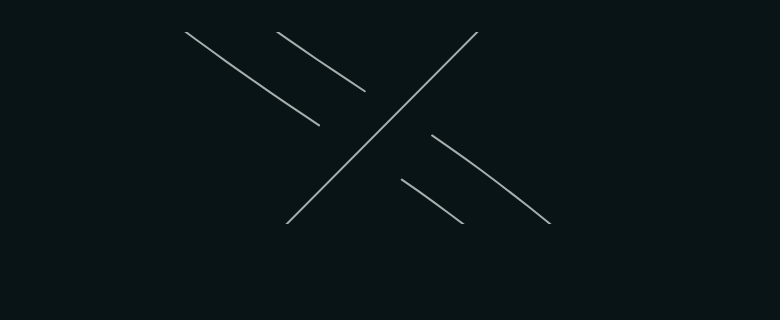
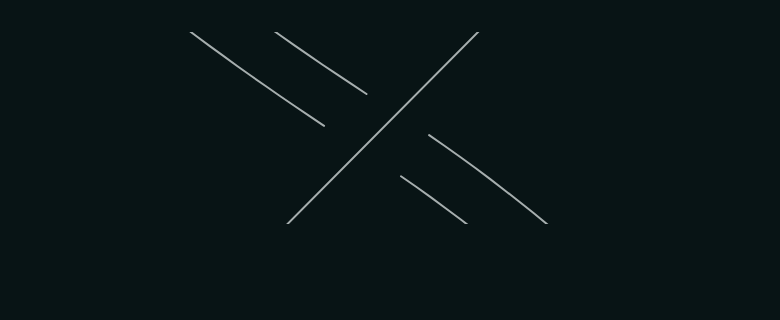
fix(rift): apply atelier critique fixes 1-9 to the sketch hatch, share crop and doc (M152)
Hatch mask per card A: rings within 2 u merged (hull), DP 2.0 (<=14 per
ring), rings under 20 u2 or narrower than 6 u dropped, <=60 vertices;
pitch 5.0, inset 1.5, runs 6-16 u. Share strip centred on (50,50), widened
3 u. Lit pixels and the river refit residual recorded in
docs/rift-schematic.md. Stills re-captured.

diff --git a/.planning/missions/M152/gallery/rift-sketch-1280.html b/.planning/missions/M152/gallery/rift-sketch-1280.html
@@ -26,7 +26,7 @@
 <svg viewBox="0 0 100 100" aria-hidden="true"><g class="ticks"><path d="M14,2 14,0.4 M26,2 26,0.4 M38,2 38,0.4 M50,2 50,0.4 M62,2 62,0.4 M74,2 74,0.4 M86,2 86,0.4 M2,21.2 0.4,21.2 M2,40.4 0.4,40.4 M2,59.6 0.4,59.6 M2,78.8 0.4,78.8"/></g><g class="ink">
 <path d="M3.5,2 96.5,2 M98,3.5 98,96.5 M96.5,98 3.5,98 M2,96.5 2,3.5"/><path d="M7.52,84.95 7.52,20 18.67,8.2 82.87,8.2 M14.19,85.65 83.26,16.05 M14.93,92.33 83.33,92.33 90.8,82 90.8,16.45"/><path d="M13.66,18.95 14.25,19.8 14.85,20.65 15.45,21.48 16.05,22.3 16.65,23.12 17.27,23.92 17.88,24.71 18.5,25.49 19.13,26.27 19.76,27.03 20.39,27.78 21.03,28.53 21.68,29.27 22.33,30 22.98,30.72 23.65,31.43 24.31,32.14 24.99,32.84 25.67,33.53 26.36,34.22 27.05,34.89 27.75,35.57 28.46,36.23 29.17,36.89 29.9,37.55 30.62,38.2 31.36,38.84 32.1,39.48 32.86,40.12 33.62,40.75 34.38,41.38 35.16,42 35.94,42.62 36.73,43.23 37.53,43.85 38.34,44.46 39.16,45.07 39.99,45.67 40.82,46.28 41.67,46.88 42.53,47.48 43.39,48.08 44.27,48.68 45.15,49.27 46.04,49.87 M50.66,52.9 51.57,53.53 52.46,54.17 53.34,54.82 54.21,55.47 55.07,56.12 55.91,56.78 56.73,57.44 57.55,58.11 58.36,58.78 59.15,59.46 59.93,60.13 60.71,60.81 61.47,61.49 62.23,62.18 62.98,62.86 63.72,63.55 64.45,64.23 65.18,64.91 65.9,65.6 66.62,66.28 67.33,66.96 68.03,67.64 68.74,68.32 69.44,69 70.14,69.67 70.83,70.34 71.53,71 72.22,71.66 72.91,72.31 73.61,72.96 74.3,73.61 75,74.25 75.69,74.88 76.39,75.5 77.1,76.12 77.8,76.73 78.51,77.33 79.23,77.92 79.95,78.5 80.68,79.07 81.41,79.63 82.15,80.18 82.9,80.72 83.66,81.25 84.42,81.76 85.19,82.27 M16.14,17.25 16.71,18.09 17.29,18.91 17.87,19.72 18.46,20.52 19.05,21.31 19.64,22.09 20.24,22.86 20.84,23.62 21.45,24.37 22.06,25.11 22.68,25.84 23.3,26.57 23.92,27.28 24.56,27.99 25.19,28.69 25.84,29.38 26.48,30.07 27.14,30.74 27.8,31.42 28.47,32.08 29.14,32.74 29.82,33.39 30.51,34.04 31.2,34.68 31.9,35.32 32.61,35.95 33.33,36.58 34.05,37.2 34.78,37.82 35.52,38.43 36.27,39.04 37.03,39.65 37.79,40.26 38.57,40.86 39.35,41.46 40.14,42.06 40.94,42.65 41.75,43.25 42.57,43.84 43.4,44.43 44.24,45.02 45.09,45.61 45.95,46.2 46.82,46.78 47.7,47.37 48.59,47.96 M52.35,50.43 53.29,51.08 54.22,51.74 55.13,52.4 56.02,53.07 56.9,53.75 57.77,54.43 58.62,55.11 59.46,55.8 60.29,56.49 61.1,57.18 61.9,57.87 62.69,58.57 63.48,59.26 64.25,59.96 65.01,60.65 65.76,61.35 66.5,62.04 67.24,62.73 67.97,63.43 68.69,64.11 69.41,64.8 70.12,65.48 70.82,66.16 71.52,66.83 72.22,67.5 72.91,68.17 73.6,68.83 74.28,69.48 74.97,70.13 75.65,70.77 76.33,71.4 77.02,72.03 77.7,72.64 78.38,73.25 79.06,73.85 79.75,74.44 80.44,75.02 81.13,75.59 81.82,76.15 82.52,76.7 83.22,77.24 83.92,77.76 84.64,78.27 85.35,78.77 86.08,79.26 86.81,79.73"/>
 <path d="M6.97,89.91a3,3 0 1 0 6,0a3,3 0 1 0 -6,0"/><path d="M85.37,7.91h6v6h-6Z"/><path d="M32.33,27.93l1.45,1.45l-1.45,1.45l-1.45,-1.45Z M65.77,69.12l1.45,1.45l-1.45,1.45l-1.45,-1.45Z"/>
-<path class="hatch" d="M12.4,24.8H13.8 M12.1,25.9H16.2 M11.9,27H17.1 M11.6,28.1H18 M11.3,29.2H18.8 M11.3,30.3H14.6 M18.1,30.3H19.6 M11.4,31.4H13.8 M18.9,31.4H20.2 M11.4,32.5H13.4 M19.7,32.5H20.7 M11.5,33.6H12.6 M70.9,35.8H74.8 M17,36.9H18.5 M69.8,36.9H77.2 M11.8,38H13.7 M16.9,38H18.6 M23.5,38H24.6 M68.6,38H78.3 M11.2,39.1H13.9 M16.9,39.1H18.8 M24.1,39.1H26 M76.4,39.1H78.1 M82.4,39.1H86.8 M11.2,40.2H13.1 M16.8,40.2H19 M25.3,40.2H28.1 M82.6,40.2H86.9 M11.2,41.3H12.7 M16.7,41.3H20.1 M27.7,41.3H30.2 M83,41.3H86.8 M16.7,42.4H21 M83.4,42.4H86.8 M17.7,43.5H21 M69.6,43.5H71.1 M84.2,43.5H86.8 M25.5,44.6H27.6 M64.4,44.6H65.6 M69.6,44.6H71.2 M83.8,44.6H86.8 M11.2,45.7H12.5 M27,45.7H28.2 M64.3,45.7H65.5 M69.8,45.7H71.4 M84.1,45.7H86.9 M11.8,46.8H16.6 M27.1,46.8H28.6 M35.9,46.8H38 M70.9,46.8H73.1 M83.7,46.8H86.9 M13.8,47.9H17.2 M27.1,47.9H28.4 M36,47.9H39.5 M58,47.9H59.7 M83.8,47.9H86.9 M22.3,49H28.4 M36,49H40.8 M58,49H60.7 M84.5,49H86.9 M21.4,50.1H27.8 M36.1,50.1H40.4 M58.1,50.1H61.8 M11.2,51.2H12.4 M37.1,51.2H40.9 M58.3,51.2H62.1 M73.9,51.2H77.5 M11.2,52.3H13.7 M38.2,52.3H40.7 M58.8,52.3H62.3 M70,52.3H72.1 M11.2,53.4H15.1 M25.4,53.4H28.1 M59.9,53.4H62.4 M70,53.4H71.6 M82.2,53.4H84.8 M11.2,54.5H15 M26.7,54.5H29.1 M33,54.5H34.2 M61,54.5H62.6 M70.2,54.5H71.4 M82.3,54.5H86.6 M11.2,55.6H15 M27.2,55.6H29.1 M32.9,55.6H34.1 M70,55.6H71.3 M11.2,56.7H14.9 M27.6,56.7H28.8 M32.9,56.7H34.8 M70.4,56.7H72.3 M11.2,57.8H14.7 M32.8,57.8H34.6 M77.7,57.8H80.2 M11.2,58.9H15.2 M19,58.9H20.3 M78.4,58.9H81.2 M11.2,60H16 M19.3,60H21.9 M68,60H69.9 M79.3,60H81.8 M11.2,61.1H16.2 M19.6,61.1H24.6 M80.3,61.1H81.8 M11.2,62.2H15.6 M20,62.2H30.4 M72.7,62.2H74.1 M20.3,63.3H29 M74,63.3H76.2 M85.4,63.3H86.9 M21.9,64.4H28.4 M75.1,64.4H77.1 M85.2,64.4H86.9 M24.2,65.5H27.4 M76,65.5H77.7 M85,65.5H86.9 M76.2,66.6H77.9 M84.9,66.6H86.9 M76.8,67.7H78.1 M85.2,67.7H86.9 M84.6,68.8H86.8 M81.2,72.1H82.7 M81.7,73.2H84 M82.8,74.2H85.3 M84.3,75.3H86.6 M22.6,13.4V14.8 M23.7,12.8V16.9 M24.8,12.2V18.9 M25.9,12.1V20.2 M27,12.1V16.7 M27,25V26.8 M28.1,12V14.4 M28.1,24.8V27.6 M29.2,12V13.7 M29.2,23.4V28.3 M30.3,12V13.4 M30.3,22.3V26.7 M31.4,22.7V26.4 M32.5,23V26.3 M33.6,23.4V26.6 M33.6,71.3V72.5 M34.7,24V26.5 M34.7,32.7V34.2 M34.7,70.3V74.1 M35.8,19V20.4 M35.8,25.4V26.6 M35.8,31.9V34.5 M35.8,69.3V75.1 M36.9,18.6V21.2 M36.9,31.8V34.7 M36.9,68.8V74 M38,11.9V13.7 M38,18.3V22 M38,31.8V34.7 M38,68.5V71.9 M38,78.4V83.7 M39.1,11.8V13.5 M39.1,18V22.3 M39.1,33.7V35.1 M39.1,68.2V69.7 M39.1,78V83.7 M40.2,11.8V13 M40.2,17.9V21.5 M40.2,80.3V83.7 M41.3,11.7V13.2 M41.3,19.4V21.5 M42.4,11.7V13.1 M42.4,19.5V21 M42.4,62.5V65.5 M42.4,72.3V76.9 M43.5,19.5V21 M43.5,24.6V26.9 M43.5,61.6V66.8 M43.5,71.7V77.8 M44.6,19.2V20.9 M44.6,40.2V41.5 M44.6,61.1V62.2 M44.6,75.9V78.8 M44.6,84.7V88.5 M45.7,16.7V20.7 M45.7,40.8V42.6 M45.7,60.3V61.7 M45.7,76.6V79.4 M45.7,84.4V88.4 M46.8,17.2V20.7 M46.8,41.7V43.3 M46.8,59.7V61.6 M46.8,77.9V79 M46.8,84.6V88.4 M47.9,11.9V13.6 M47.9,35.7V38.2 M47.9,42.6V44.1 M47.9,85V88.5 M49,11.9V14.6 M49,36.3V39 M49,43.6V44.9 M49,85.6V88.5 M50.1,11.9V15.3 M50.1,28.5V29.8 M50.1,38V39.2 M50.1,62.5V64.1 M50.1,86.4V88.5 M51.2,11.9V15.4 M51.2,38.5V39.8 M51.2,81V82.6 M51.2,87V88.5 M52.3,11.9V15.9 M52.3,22.2V23.4 M52.3,38.5V41.1 M52.3,79.7V83.2 M53.4,11.9V15.5 M53.4,21.8V24.3 M53.4,38.5V40.5 M53.4,79.6V83.4 M54.5,11.9V15.9 M54.5,22V26.5 M54.5,37.4V39.4 M54.5,73V75.8 M54.5,79.4V81 M55.6,12.6V15.4 M55.6,22.9V28.6 M55.6,35.4V38.5 M55.6,73.5V75.3 M55.6,79.2V80.9 M56.7,36.1V37.5 M56.7,79.1V80.9 M57.8,78.9V81.5 M58.9,16.6V20.5 M58.9,79V82.1 M58.9,87V88.5 M60,11.9V21.9 M60,30.3V32.4 M60,65.4V68.1 M60,79V82 M61.1,12.3V21.9 M61.1,26.1V32.3 M61.1,65.7V68.1 M61.1,79.7V81.5 M62.2,19.5V21.1 M62.2,26V32.4 M62.2,65.4V68.1 M63.3,25.9V31.6 M63.3,65.9V68.1 M63.3,73V74.8 M64.4,26.6V30.2 M64.4,74V76.2 M64.4,85.4V87.6 M65.5,28V29.3 M65.5,75V76.7 M65.5,85.5V88.4 M66.6,74.7V77.1 M66.6,86.2V88.4 M67.7,74V77.5 M67.7,86.4V88.3 M68.8,72.3V77.9 M68.8,86.8V88.4 M69.9,72.2V76 M69.9,87V88.3 M71,73.6V75.5 M73.2,79.6V81.7 M74.2,79.5V82.9 M75.3,80.1V86.8 M76.4,81.1V85.7 M77.5,82.4V84.6"/><path class="dots" d="M9.4,17.11h0 M8.95,17.89h0 M9.85,17.89h0 M89.27,82.32h0 M88.82,83.1h0 M89.72,83.1h0 M82.81,88.02h0 M82.36,88.8h0 M83.26,88.8h0 M15.86,11.4h0 M15.41,12.18h0 M16.31,12.18h0 M9.23,24.5h0 M8.78,25.28h0 M9.68,25.28h0 M89.43,74.93h0 M88.98,75.71h0 M89.88,75.71h0 M54.18,63.46h0 M53.73,64.24h0 M54.63,64.24h0 M44.48,35.96h0 M44.03,36.74h0 M44.93,36.74h0 M19.51,68.82h0 M19.06,69.6h0 M19.96,69.6h0 M79.15,30.61h0 M78.7,31.39h0 M79.6,31.39h0"/></g><g class="chalk"><path d="M13.26,88.72L19.84,86.34"/><path d="M13.26,88.72h0"/></g></svg>
+<path class="hatch" d="M12.5,37.5H21.8 M12.3,42.5H28.3 M66.8,42.5H78 M16.2,47.5H30.1 M62.7,47.5H76.6 M20.3,52.5H30 M61.9,52.5H76.5 M20.4,57.5H29.8 M69.4,57.5H76.8 M21.5,62.5H28 M52.5,23.7V38.8 M52.5,73V79.8 M57.5,73.1V82"/><path class="dots" d="M9.4,17.11h0 M8.95,17.89h0 M9.85,17.89h0 M89.27,82.32h0 M88.82,83.1h0 M89.72,83.1h0 M82.81,88.02h0 M82.36,88.8h0 M83.26,88.8h0 M15.86,11.4h0 M15.41,12.18h0 M16.31,12.18h0 M9.23,24.5h0 M8.78,25.28h0 M9.68,25.28h0 M89.43,74.93h0 M88.98,75.71h0 M89.88,75.71h0 M54.18,63.46h0 M53.73,64.24h0 M54.63,64.24h0 M44.48,35.96h0 M44.03,36.74h0 M44.93,36.74h0 M19.51,68.82h0 M19.06,69.6h0 M19.96,69.6h0 M79.15,30.61h0 M78.7,31.39h0 M79.6,31.39h0"/></g><g class="chalk"><path d="M13.26,88.72L19.84,86.34"/><path d="M13.26,88.72h0"/></g></svg>
 <span class="eyebrow" style="left:34.58%;top:29.38%;transform:translateY(-50%)">Baron</span>
 <span class="eyebrow" style="right:36.48%;top:70.57%;transform:translateY(-50%)">Dragon</span>
 <span class="tick" style="left:8%;top:0;transform:translate(-50%,-110%)">A</span><span class="tick" style="left:20%;top:0;transform:translate(-50%,-110%)">B</span><span class="tick" style="left:32%;top:0;transform:translate(-50%,-110%)">C</span><span class="tick" style="left:44%;top:0;transform:translate(-50%,-110%)">D</span><span class="tick" style="left:56%;top:0;transform:translate(-50%,-110%)">E</span><span class="tick" style="left:68%;top:0;transform:translate(-50%,-110%)">F</span><span class="tick" style="left:80%;top:0;transform:translate(-50%,-110%)">G</span><span class="tick" style="left:92%;top:0;transform:translate(-50%,-110%)">H</span><span class="tick" style="left:0;top:11.6%;transform:translate(-140%,-50%)">1</span><span class="tick" style="left:0;top:30.8%;transform:translate(-140%,-50%)">2</span><span class="tick" style="left:0;top:50%;transform:translate(-140%,-50%)">3</span><span class="tick" style="left:0;top:69.2%;transform:translate(-140%,-50%)">4</span><span class="tick" style="left:0;top:88.4%;transform:translate(-140%,-50%)">5</span><span class="eyebrow label" style="left:20.84%;top:86.34%;transform:translateY(-50%)">Your team</span></div></div></body></html>

diff --git a/.planning/missions/M152/gallery/rift-sketch-390.html b/.planning/missions/M152/gallery/rift-sketch-390.html
@@ -26,7 +26,7 @@
 <svg viewBox="0 0 100 100" aria-hidden="true"><g class="ink">
 <path d="M3.5,2 96.5,2 M98,3.5 98,96.5 M96.5,98 3.5,98 M2,96.5 2,3.5"/><path d="M7.52,84.95 7.52,20 18.67,8.2 82.87,8.2 M14.19,85.65 83.26,16.05 M14.93,92.33 83.33,92.33 90.8,82 90.8,16.45"/><path d="M13.66,18.95 14.25,19.8 14.85,20.65 15.45,21.48 16.05,22.3 16.65,23.12 17.27,23.92 17.88,24.71 18.5,25.49 19.13,26.27 19.76,27.03 20.39,27.78 21.03,28.53 21.68,29.27 22.33,30 22.98,30.72 23.65,31.43 24.31,32.14 24.99,32.84 25.67,33.53 26.36,34.22 27.05,34.89 27.75,35.57 28.46,36.23 29.17,36.89 29.9,37.55 30.62,38.2 31.36,38.84 32.1,39.48 32.86,40.12 33.62,40.75 34.38,41.38 35.16,42 35.94,42.62 36.73,43.23 37.53,43.85 38.34,44.46 39.16,45.07 39.99,45.67 40.82,46.28 41.67,46.88 42.53,47.48 43.39,48.08 44.27,48.68 45.15,49.27 46.04,49.87 M50.66,52.9 51.57,53.53 52.46,54.17 53.34,54.82 54.21,55.47 55.07,56.12 55.91,56.78 56.73,57.44 57.55,58.11 58.36,58.78 59.15,59.46 59.93,60.13 60.71,60.81 61.47,61.49 62.23,62.18 62.98,62.86 63.72,63.55 64.45,64.23 65.18,64.91 65.9,65.6 66.62,66.28 67.33,66.96 68.03,67.64 68.74,68.32 69.44,69 70.14,69.67 70.83,70.34 71.53,71 72.22,71.66 72.91,72.31 73.61,72.96 74.3,73.61 75,74.25 75.69,74.88 76.39,75.5 77.1,76.12 77.8,76.73 78.51,77.33 79.23,77.92 79.95,78.5 80.68,79.07 81.41,79.63 82.15,80.18 82.9,80.72 83.66,81.25 84.42,81.76 85.19,82.27 M16.14,17.25 16.71,18.09 17.29,18.91 17.87,19.72 18.46,20.52 19.05,21.31 19.64,22.09 20.24,22.86 20.84,23.62 21.45,24.37 22.06,25.11 22.68,25.84 23.3,26.57 23.92,27.28 24.56,27.99 25.19,28.69 25.84,29.38 26.48,30.07 27.14,30.74 27.8,31.42 28.47,32.08 29.14,32.74 29.82,33.39 30.51,34.04 31.2,34.68 31.9,35.32 32.61,35.95 33.33,36.58 34.05,37.2 34.78,37.82 35.52,38.43 36.27,39.04 37.03,39.65 37.79,40.26 38.57,40.86 39.35,41.46 40.14,42.06 40.94,42.65 41.75,43.25 42.57,43.84 43.4,44.43 44.24,45.02 45.09,45.61 45.95,46.2 46.82,46.78 47.7,47.37 48.59,47.96 M52.35,50.43 53.29,51.08 54.22,51.74 55.13,52.4 56.02,53.07 56.9,53.75 57.77,54.43 58.62,55.11 59.46,55.8 60.29,56.49 61.1,57.18 61.9,57.87 62.69,58.57 63.48,59.26 64.25,59.96 65.01,60.65 65.76,61.35 66.5,62.04 67.24,62.73 67.97,63.43 68.69,64.11 69.41,64.8 70.12,65.48 70.82,66.16 71.52,66.83 72.22,67.5 72.91,68.17 73.6,68.83 74.28,69.48 74.97,70.13 75.65,70.77 76.33,71.4 77.02,72.03 77.7,72.64 78.38,73.25 79.06,73.85 79.75,74.44 80.44,75.02 81.13,75.59 81.82,76.15 82.52,76.7 83.22,77.24 83.92,77.76 84.64,78.27 85.35,78.77 86.08,79.26 86.81,79.73"/>
 <path d="M6.97,89.91a3,3 0 1 0 6,0a3,3 0 1 0 -6,0"/><path d="M85.37,7.91h6v6h-6Z"/><path d="M32.33,27.93l1.45,1.45l-1.45,1.45l-1.45,-1.45Z M65.77,69.12l1.45,1.45l-1.45,1.45l-1.45,-1.45Z"/>
-<path class="hatch" d="M12.4,24.8H13.8 M12.1,25.9H16.2 M11.9,27H17.1 M11.6,28.1H18 M11.3,29.2H18.8 M11.3,30.3H14.6 M18.1,30.3H19.6 M11.4,31.4H13.8 M18.9,31.4H20.2 M11.4,32.5H13.4 M19.7,32.5H20.7 M11.5,33.6H12.6 M70.9,35.8H74.8 M17,36.9H18.5 M69.8,36.9H77.2 M11.8,38H13.7 M16.9,38H18.6 M23.5,38H24.6 M68.6,38H78.3 M11.2,39.1H13.9 M16.9,39.1H18.8 M24.1,39.1H26 M76.4,39.1H78.1 M82.4,39.1H86.8 M11.2,40.2H13.1 M16.8,40.2H19 M25.3,40.2H28.1 M82.6,40.2H86.9 M11.2,41.3H12.7 M16.7,41.3H20.1 M27.7,41.3H30.2 M83,41.3H86.8 M16.7,42.4H21 M83.4,42.4H86.8 M17.7,43.5H21 M69.6,43.5H71.1 M84.2,43.5H86.8 M25.5,44.6H27.6 M64.4,44.6H65.6 M69.6,44.6H71.2 M83.8,44.6H86.8 M11.2,45.7H12.5 M27,45.7H28.2 M64.3,45.7H65.5 M69.8,45.7H71.4 M84.1,45.7H86.9 M11.8,46.8H16.6 M27.1,46.8H28.6 M35.9,46.8H38 M70.9,46.8H73.1 M83.7,46.8H86.9 M13.8,47.9H17.2 M27.1,47.9H28.4 M36,47.9H39.5 M58,47.9H59.7 M83.8,47.9H86.9 M22.3,49H28.4 M36,49H40.8 M58,49H60.7 M84.5,49H86.9 M21.4,50.1H27.8 M36.1,50.1H40.4 M58.1,50.1H61.8 M11.2,51.2H12.4 M37.1,51.2H40.9 M58.3,51.2H62.1 M73.9,51.2H77.5 M11.2,52.3H13.7 M38.2,52.3H40.7 M58.8,52.3H62.3 M70,52.3H72.1 M11.2,53.4H15.1 M25.4,53.4H28.1 M59.9,53.4H62.4 M70,53.4H71.6 M82.2,53.4H84.8 M11.2,54.5H15 M26.7,54.5H29.1 M33,54.5H34.2 M61,54.5H62.6 M70.2,54.5H71.4 M82.3,54.5H86.6 M11.2,55.6H15 M27.2,55.6H29.1 M32.9,55.6H34.1 M70,55.6H71.3 M11.2,56.7H14.9 M27.6,56.7H28.8 M32.9,56.7H34.8 M70.4,56.7H72.3 M11.2,57.8H14.7 M32.8,57.8H34.6 M77.7,57.8H80.2 M11.2,58.9H15.2 M19,58.9H20.3 M78.4,58.9H81.2 M11.2,60H16 M19.3,60H21.9 M68,60H69.9 M79.3,60H81.8 M11.2,61.1H16.2 M19.6,61.1H24.6 M80.3,61.1H81.8 M11.2,62.2H15.6 M20,62.2H30.4 M72.7,62.2H74.1 M20.3,63.3H29 M74,63.3H76.2 M85.4,63.3H86.9 M21.9,64.4H28.4 M75.1,64.4H77.1 M85.2,64.4H86.9 M24.2,65.5H27.4 M76,65.5H77.7 M85,65.5H86.9 M76.2,66.6H77.9 M84.9,66.6H86.9 M76.8,67.7H78.1 M85.2,67.7H86.9 M84.6,68.8H86.8 M81.2,72.1H82.7 M81.7,73.2H84 M82.8,74.2H85.3 M84.3,75.3H86.6 M22.6,13.4V14.8 M23.7,12.8V16.9 M24.8,12.2V18.9 M25.9,12.1V20.2 M27,12.1V16.7 M27,25V26.8 M28.1,12V14.4 M28.1,24.8V27.6 M29.2,12V13.7 M29.2,23.4V28.3 M30.3,12V13.4 M30.3,22.3V26.7 M31.4,22.7V26.4 M32.5,23V26.3 M33.6,23.4V26.6 M33.6,71.3V72.5 M34.7,24V26.5 M34.7,32.7V34.2 M34.7,70.3V74.1 M35.8,19V20.4 M35.8,25.4V26.6 M35.8,31.9V34.5 M35.8,69.3V75.1 M36.9,18.6V21.2 M36.9,31.8V34.7 M36.9,68.8V74 M38,11.9V13.7 M38,18.3V22 M38,31.8V34.7 M38,68.5V71.9 M38,78.4V83.7 M39.1,11.8V13.5 M39.1,18V22.3 M39.1,33.7V35.1 M39.1,68.2V69.7 M39.1,78V83.7 M40.2,11.8V13 M40.2,17.9V21.5 M40.2,80.3V83.7 M41.3,11.7V13.2 M41.3,19.4V21.5 M42.4,11.7V13.1 M42.4,19.5V21 M42.4,62.5V65.5 M42.4,72.3V76.9 M43.5,19.5V21 M43.5,24.6V26.9 M43.5,61.6V66.8 M43.5,71.7V77.8 M44.6,19.2V20.9 M44.6,40.2V41.5 M44.6,61.1V62.2 M44.6,75.9V78.8 M44.6,84.7V88.5 M45.7,16.7V20.7 M45.7,40.8V42.6 M45.7,60.3V61.7 M45.7,76.6V79.4 M45.7,84.4V88.4 M46.8,17.2V20.7 M46.8,41.7V43.3 M46.8,59.7V61.6 M46.8,77.9V79 M46.8,84.6V88.4 M47.9,11.9V13.6 M47.9,35.7V38.2 M47.9,42.6V44.1 M47.9,85V88.5 M49,11.9V14.6 M49,36.3V39 M49,43.6V44.9 M49,85.6V88.5 M50.1,11.9V15.3 M50.1,28.5V29.8 M50.1,38V39.2 M50.1,62.5V64.1 M50.1,86.4V88.5 M51.2,11.9V15.4 M51.2,38.5V39.8 M51.2,81V82.6 M51.2,87V88.5 M52.3,11.9V15.9 M52.3,22.2V23.4 M52.3,38.5V41.1 M52.3,79.7V83.2 M53.4,11.9V15.5 M53.4,21.8V24.3 M53.4,38.5V40.5 M53.4,79.6V83.4 M54.5,11.9V15.9 M54.5,22V26.5 M54.5,37.4V39.4 M54.5,73V75.8 M54.5,79.4V81 M55.6,12.6V15.4 M55.6,22.9V28.6 M55.6,35.4V38.5 M55.6,73.5V75.3 M55.6,79.2V80.9 M56.7,36.1V37.5 M56.7,79.1V80.9 M57.8,78.9V81.5 M58.9,16.6V20.5 M58.9,79V82.1 M58.9,87V88.5 M60,11.9V21.9 M60,30.3V32.4 M60,65.4V68.1 M60,79V82 M61.1,12.3V21.9 M61.1,26.1V32.3 M61.1,65.7V68.1 M61.1,79.7V81.5 M62.2,19.5V21.1 M62.2,26V32.4 M62.2,65.4V68.1 M63.3,25.9V31.6 M63.3,65.9V68.1 M63.3,73V74.8 M64.4,26.6V30.2 M64.4,74V76.2 M64.4,85.4V87.6 M65.5,28V29.3 M65.5,75V76.7 M65.5,85.5V88.4 M66.6,74.7V77.1 M66.6,86.2V88.4 M67.7,74V77.5 M67.7,86.4V88.3 M68.8,72.3V77.9 M68.8,86.8V88.4 M69.9,72.2V76 M69.9,87V88.3 M71,73.6V75.5 M73.2,79.6V81.7 M74.2,79.5V82.9 M75.3,80.1V86.8 M76.4,81.1V85.7 M77.5,82.4V84.6"/><path class="dots" d="M9.4,17.11h0 M8.95,17.89h0 M9.85,17.89h0 M89.27,82.32h0 M88.82,83.1h0 M89.72,83.1h0 M82.81,88.02h0 M82.36,88.8h0 M83.26,88.8h0 M15.86,11.4h0 M15.41,12.18h0 M16.31,12.18h0 M9.23,24.5h0 M8.78,25.28h0 M9.68,25.28h0 M89.43,74.93h0 M88.98,75.71h0 M89.88,75.71h0 M54.18,63.46h0 M53.73,64.24h0 M54.63,64.24h0 M44.48,35.96h0 M44.03,36.74h0 M44.93,36.74h0 M19.51,68.82h0 M19.06,69.6h0 M19.96,69.6h0 M79.15,30.61h0 M78.7,31.39h0 M79.6,31.39h0"/></g><g class="chalk"><path d="M13.26,88.72L19.84,86.34"/><path d="M13.26,88.72h0"/></g></svg>
+<path class="hatch" d="M12.5,37.5H21.8 M12.3,42.5H28.3 M66.8,42.5H78 M16.2,47.5H30.1 M62.7,47.5H76.6 M20.3,52.5H30 M61.9,52.5H76.5 M20.4,57.5H29.8 M69.4,57.5H76.8 M21.5,62.5H28 M52.5,23.7V38.8 M52.5,73V79.8 M57.5,73.1V82"/><path class="dots" d="M9.4,17.11h0 M8.95,17.89h0 M9.85,17.89h0 M89.27,82.32h0 M88.82,83.1h0 M89.72,83.1h0 M82.81,88.02h0 M82.36,88.8h0 M83.26,88.8h0 M15.86,11.4h0 M15.41,12.18h0 M16.31,12.18h0 M9.23,24.5h0 M8.78,25.28h0 M9.68,25.28h0 M89.43,74.93h0 M88.98,75.71h0 M89.88,75.71h0 M54.18,63.46h0 M53.73,64.24h0 M54.63,64.24h0 M44.48,35.96h0 M44.03,36.74h0 M44.93,36.74h0 M19.51,68.82h0 M19.06,69.6h0 M19.96,69.6h0 M79.15,30.61h0 M78.7,31.39h0 M79.6,31.39h0"/></g><g class="chalk"><path d="M13.26,88.72L19.84,86.34"/><path d="M13.26,88.72h0"/></g></svg>
 <span class="eyebrow" style="left:34.58%;top:29.38%;transform:translateY(-50%)">Baron</span>
 <span class="eyebrow" style="right:36.48%;top:70.57%;transform:translateY(-50%)">Dragon</span>
 <span class="eyebrow label" style="left:20.84%;top:86.34%;transform:translateY(-50%)">Your team</span></div></div></body></html>

diff --git a/.planning/missions/M152/gallery/rift-share-1280.html b/.planning/missions/M152/gallery/rift-share-1280.html
@@ -23,5 +23,5 @@
   .wide .label { font-size: 13px; }
 </style>
 </head><body><div style="padding:16px"><div class="rift wide" style="width:640px" data-rift="share">
-<svg viewBox="25 45.3 50 9.4" preserveAspectRatio="xMidYMid slice" aria-hidden="true"><g class="ink">
+<svg viewBox="23.5 45.02 53 9.96" preserveAspectRatio="xMidYMid slice" aria-hidden="true"><g class="ink">
 <path d="M7.52,84.95 7.52,20 18.67,8.2 82.87,8.2 M14.19,85.65 83.26,16.05 M14.93,92.33 83.33,92.33 90.8,82 90.8,16.45"/><path d="M13.66,18.95 14.25,19.8 14.85,20.65 15.45,21.48 16.05,22.3 16.65,23.12 17.27,23.92 17.88,24.71 18.5,25.49 19.13,26.27 19.76,27.03 20.39,27.78 21.03,28.53 21.68,29.27 22.33,30 22.98,30.72 23.65,31.43 24.31,32.14 24.99,32.84 25.67,33.53 26.36,34.22 27.05,34.89 27.75,35.57 28.46,36.23 29.17,36.89 29.9,37.55 30.62,38.2 31.36,38.84 32.1,39.48 32.86,40.12 33.62,40.75 34.38,41.38 35.16,42 35.94,42.62 36.73,43.23 37.53,43.85 38.34,44.46 39.16,45.07 39.99,45.67 40.82,46.28 41.67,46.88 42.53,47.48 43.39,48.08 44.27,48.68 45.15,49.27 46.04,49.87 M50.66,52.9 51.57,53.53 52.46,54.17 53.34,54.82 54.21,55.47 55.07,56.12 55.91,56.78 56.73,57.44 57.55,58.11 58.36,58.78 59.15,59.46 59.93,60.13 60.71,60.81 61.47,61.49 62.23,62.18 62.98,62.86 63.72,63.55 64.45,64.23 65.18,64.91 65.9,65.6 66.62,66.28 67.33,66.96 68.03,67.64 68.74,68.32 69.44,69 70.14,69.67 70.83,70.34 71.53,71 72.22,71.66 72.91,72.31 73.61,72.96 74.3,73.61 75,74.25 75.69,74.88 76.39,75.5 77.1,76.12 77.8,76.73 78.51,77.33 79.23,77.92 79.95,78.5 80.68,79.07 81.41,79.63 82.15,80.18 82.9,80.72 83.66,81.25 84.42,81.76 85.19,82.27 M16.14,17.25 16.71,18.09 17.29,18.91 17.87,19.72 18.46,20.52 19.05,21.31 19.64,22.09 20.24,22.86 20.84,23.62 21.45,24.37 22.06,25.11 22.68,25.84 23.3,26.57 23.92,27.28 24.56,27.99 25.19,28.69 25.84,29.38 26.48,30.07 27.14,30.74 27.8,31.42 28.47,32.08 29.14,32.74 29.82,33.39 30.51,34.04 31.2,34.68 31.9,35.32 32.61,35.95 33.33,36.58 34.05,37.2 34.78,37.82 35.52,38.43 36.27,39.04 37.03,39.65 37.79,40.26 38.57,40.86 39.35,41.46 40.14,42.06 40.94,42.65 41.75,43.25 42.57,43.84 43.4,44.43 44.24,45.02 45.09,45.61 45.95,46.2 46.82,46.78 47.7,47.37 48.59,47.96 M52.35,50.43 53.29,51.08 54.22,51.74 55.13,52.4 56.02,53.07 56.9,53.75 57.77,54.43 58.62,55.11 59.46,55.8 60.29,56.49 61.1,57.18 61.9,57.87 62.69,58.57 63.48,59.26 64.25,59.96 65.01,60.65 65.76,61.35 66.5,62.04 67.24,62.73 67.97,63.43 68.69,64.11 69.41,64.8 70.12,65.48 70.82,66.16 71.52,66.83 72.22,67.5 72.91,68.17 73.6,68.83 74.28,69.48 74.97,70.13 75.65,70.77 76.33,71.4 77.02,72.03 77.7,72.64 78.38,73.25 79.06,73.85 79.75,74.44 80.44,75.02 81.13,75.59 81.82,76.15 82.52,76.7 83.22,77.24 83.92,77.76 84.64,78.27 85.35,78.77 86.08,79.26 86.81,79.73"/><path d="M6.97,89.91a3,3 0 1 0 6,0a3,3 0 1 0 -6,0"/><path d="M85.37,7.91h6v6h-6Z"/></g></svg></div></div></body></html>

diff --git a/.planning/missions/M152/gallery/rift-share-390.html b/.planning/missions/M152/gallery/rift-share-390.html
@@ -23,5 +23,5 @@
   .wide .label { font-size: 13px; }
 </style>
 </head><body><div style="padding:16px"><div class="rift " style="width:358px" data-rift="share">
-<svg viewBox="30 44.65 40 10.7" preserveAspectRatio="xMidYMid slice" aria-hidden="true"><g class="ink">
+<svg viewBox="28.5 44.235 43 11.53" preserveAspectRatio="xMidYMid slice" aria-hidden="true"><g class="ink">
 <path d="M7.52,84.95 7.52,20 18.67,8.2 82.87,8.2 M14.19,85.65 83.26,16.05 M14.93,92.33 83.33,92.33 90.8,82 90.8,16.45"/><path d="M13.66,18.95 14.25,19.8 14.85,20.65 15.45,21.48 16.05,22.3 16.65,23.12 17.27,23.92 17.88,24.71 18.5,25.49 19.13,26.27 19.76,27.03 20.39,27.78 21.03,28.53 21.68,29.27 22.33,30 22.98,30.72 23.65,31.43 24.31,32.14 24.99,32.84 25.67,33.53 26.36,34.22 27.05,34.89 27.75,35.57 28.46,36.23 29.17,36.89 29.9,37.55 30.62,38.2 31.36,38.84 32.1,39.48 32.86,40.12 33.62,40.75 34.38,41.38 35.16,42 35.94,42.62 36.73,43.23 37.53,43.85 38.34,44.46 39.16,45.07 39.99,45.67 40.82,46.28 41.67,46.88 42.53,47.48 43.39,48.08 44.27,48.68 45.15,49.27 46.04,49.87 M50.66,52.9 51.57,53.53 52.46,54.17 53.34,54.82 54.21,55.47 55.07,56.12 55.91,56.78 56.73,57.44 57.55,58.11 58.36,58.78 59.15,59.46 59.93,60.13 60.71,60.81 61.47,61.49 62.23,62.18 62.98,62.86 63.72,63.55 64.45,64.23 65.18,64.91 65.9,65.6 66.62,66.28 67.33,66.96 68.03,67.64 68.74,68.32 69.44,69 70.14,69.67 70.83,70.34 71.53,71 72.22,71.66 72.91,72.31 73.61,72.96 74.3,73.61 75,74.25 75.69,74.88 76.39,75.5 77.1,76.12 77.8,76.73 78.51,77.33 79.23,77.92 79.95,78.5 80.68,79.07 81.41,79.63 82.15,80.18 82.9,80.72 83.66,81.25 84.42,81.76 85.19,82.27 M16.14,17.25 16.71,18.09 17.29,18.91 17.87,19.72 18.46,20.52 19.05,21.31 19.64,22.09 20.24,22.86 20.84,23.62 21.45,24.37 22.06,25.11 22.68,25.84 23.3,26.57 23.92,27.28 24.56,27.99 25.19,28.69 25.84,29.38 26.48,30.07 27.14,30.74 27.8,31.42 28.47,32.08 29.14,32.74 29.82,33.39 30.51,34.04 31.2,34.68 31.9,35.32 32.61,35.95 33.33,36.58 34.05,37.2 34.78,37.82 35.52,38.43 36.27,39.04 37.03,39.65 37.79,40.26 38.57,40.86 39.35,41.46 40.14,42.06 40.94,42.65 41.75,43.25 42.57,43.84 43.4,44.43 44.24,45.02 45.09,45.61 45.95,46.2 46.82,46.78 47.7,47.37 48.59,47.96 M52.35,50.43 53.29,51.08 54.22,51.74 55.13,52.4 56.02,53.07 56.9,53.75 57.77,54.43 58.62,55.11 59.46,55.8 60.29,56.49 61.1,57.18 61.9,57.87 62.69,58.57 63.48,59.26 64.25,59.96 65.01,60.65 65.76,61.35 66.5,62.04 67.24,62.73 67.97,63.43 68.69,64.11 69.41,64.8 70.12,65.48 70.82,66.16 71.52,66.83 72.22,67.5 72.91,68.17 73.6,68.83 74.28,69.48 74.97,70.13 75.65,70.77 76.33,71.4 77.02,72.03 77.7,72.64 78.38,73.25 79.06,73.85 79.75,74.44 80.44,75.02 81.13,75.59 81.82,76.15 82.52,76.7 83.22,77.24 83.92,77.76 84.64,78.27 85.35,78.77 86.08,79.26 86.81,79.73"/><path d="M6.97,89.91a3,3 0 1 0 6,0a3,3 0 1 0 -6,0"/><path d="M85.37,7.91h6v6h-6Z"/></g></svg></div></div></body></html>

diff --git a/src/components/ui/rift_geometry.rs b/src/components/ui/rift_geometry.rs
@@ -23,8 +23,8 @@ pub const SKETCH_BANKS: &str = "M13.66,18.95 14.25,19.8 14.85,20.65 15.45,21.48 
 pub const SKETCH_BASE_BLUE: &str = "M6.97,89.91a3,3 0 1 0 6,0a3,3 0 1 0 -6,0";
 /// Red base: square 6 on the red nexus.
 pub const SKETCH_BASE_RED: &str = "M85.37,7.91h6v6h-6Z";
-/// Impassable terrain as axis-aligned hatch (263 lines).
-pub const SKETCH_HATCH: &str = "M12.4,24.8H13.8 M12.1,25.9H16.2 M11.9,27H17.1 M11.6,28.1H18 M11.3,29.2H18.8 M11.3,30.3H14.6 M18.1,30.3H19.6 M11.4,31.4H13.8 M18.9,31.4H20.2 M11.4,32.5H13.4 M19.7,32.5H20.7 M11.5,33.6H12.6 M70.9,35.8H74.8 M17,36.9H18.5 M69.8,36.9H77.2 M11.8,38H13.7 M16.9,38H18.6 M23.5,38H24.6 M68.6,38H78.3 M11.2,39.1H13.9 M16.9,39.1H18.8 M24.1,39.1H26 M76.4,39.1H78.1 M82.4,39.1H86.8 M11.2,40.2H13.1 M16.8,40.2H19 M25.3,40.2H28.1 M82.6,40.2H86.9 M11.2,41.3H12.7 M16.7,41.3H20.1 M27.7,41.3H30.2 M83,41.3H86.8 M16.7,42.4H21 M83.4,42.4H86.8 M17.7,43.5H21 M69.6,43.5H71.1 M84.2,43.5H86.8 M25.5,44.6H27.6 M64.4,44.6H65.6 M69.6,44.6H71.2 M83.8,44.6H86.8 M11.2,45.7H12.5 M27,45.7H28.2 M64.3,45.7H65.5 M69.8,45.7H71.4 M84.1,45.7H86.9 M11.8,46.8H16.6 M27.1,46.8H28.6 M35.9,46.8H38 M70.9,46.8H73.1 M83.7,46.8H86.9 M13.8,47.9H17.2 M27.1,47.9H28.4 M36,47.9H39.5 M58,47.9H59.7 M83.8,47.9H86.9 M22.3,49H28.4 M36,49H40.8 M58,49H60.7 M84.5,49H86.9 M21.4,50.1H27.8 M36.1,50.1H40.4 M58.1,50.1H61.8 M11.2,51.2H12.4 M37.1,51.2H40.9 M58.3,51.2H62.1 M73.9,51.2H77.5 M11.2,52.3H13.7 M38.2,52.3H40.7 M58.8,52.3H62.3 M70,52.3H72.1 M11.2,53.4H15.1 M25.4,53.4H28.1 M59.9,53.4H62.4 M70,53.4H71.6 M82.2,53.4H84.8 M11.2,54.5H15 M26.7,54.5H29.1 M33,54.5H34.2 M61,54.5H62.6 M70.2,54.5H71.4 M82.3,54.5H86.6 M11.2,55.6H15 M27.2,55.6H29.1 M32.9,55.6H34.1 M70,55.6H71.3 M11.2,56.7H14.9 M27.6,56.7H28.8 M32.9,56.7H34.8 M70.4,56.7H72.3 M11.2,57.8H14.7 M32.8,57.8H34.6 M77.7,57.8H80.2 M11.2,58.9H15.2 M19,58.9H20.3 M78.4,58.9H81.2 M11.2,60H16 M19.3,60H21.9 M68,60H69.9 M79.3,60H81.8 M11.2,61.1H16.2 M19.6,61.1H24.6 M80.3,61.1H81.8 M11.2,62.2H15.6 M20,62.2H30.4 M72.7,62.2H74.1 M20.3,63.3H29 M74,63.3H76.2 M85.4,63.3H86.9 M21.9,64.4H28.4 M75.1,64.4H77.1 M85.2,64.4H86.9 M24.2,65.5H27.4 M76,65.5H77.7 M85,65.5H86.9 M76.2,66.6H77.9 M84.9,66.6H86.9 M76.8,67.7H78.1 M85.2,67.7H86.9 M84.6,68.8H86.8 M81.2,72.1H82.7 M81.7,73.2H84 M82.8,74.2H85.3 M84.3,75.3H86.6 M22.6,13.4V14.8 M23.7,12.8V16.9 M24.8,12.2V18.9 M25.9,12.1V20.2 M27,12.1V16.7 M27,25V26.8 M28.1,12V14.4 M28.1,24.8V27.6 M29.2,12V13.7 M29.2,23.4V28.3 M30.3,12V13.4 M30.3,22.3V26.7 M31.4,22.7V26.4 M32.5,23V26.3 M33.6,23.4V26.6 M33.6,71.3V72.5 M34.7,24V26.5 M34.7,32.7V34.2 M34.7,70.3V74.1 M35.8,19V20.4 M35.8,25.4V26.6 M35.8,31.9V34.5 M35.8,69.3V75.1 M36.9,18.6V21.2 M36.9,31.8V34.7 M36.9,68.8V74 M38,11.9V13.7 M38,18.3V22 M38,31.8V34.7 M38,68.5V71.9 M38,78.4V83.7 M39.1,11.8V13.5 M39.1,18V22.3 M39.1,33.7V35.1 M39.1,68.2V69.7 M39.1,78V83.7 M40.2,11.8V13 M40.2,17.9V21.5 M40.2,80.3V83.7 M41.3,11.7V13.2 M41.3,19.4V21.5 M42.4,11.7V13.1 M42.4,19.5V21 M42.4,62.5V65.5 M42.4,72.3V76.9 M43.5,19.5V21 M43.5,24.6V26.9 M43.5,61.6V66.8 M43.5,71.7V77.8 M44.6,19.2V20.9 M44.6,40.2V41.5 M44.6,61.1V62.2 M44.6,75.9V78.8 M44.6,84.7V88.5 M45.7,16.7V20.7 M45.7,40.8V42.6 M45.7,60.3V61.7 M45.7,76.6V79.4 M45.7,84.4V88.4 M46.8,17.2V20.7 M46.8,41.7V43.3 M46.8,59.7V61.6 M46.8,77.9V79 M46.8,84.6V88.4 M47.9,11.9V13.6 M47.9,35.7V38.2 M47.9,42.6V44.1 M47.9,85V88.5 M49,11.9V14.6 M49,36.3V39 M49,43.6V44.9 M49,85.6V88.5 M50.1,11.9V15.3 M50.1,28.5V29.8 M50.1,38V39.2 M50.1,62.5V64.1 M50.1,86.4V88.5 M51.2,11.9V15.4 M51.2,38.5V39.8 M51.2,81V82.6 M51.2,87V88.5 M52.3,11.9V15.9 M52.3,22.2V23.4 M52.3,38.5V41.1 M52.3,79.7V83.2 M53.4,11.9V15.5 M53.4,21.8V24.3 M53.4,38.5V40.5 M53.4,79.6V83.4 M54.5,11.9V15.9 M54.5,22V26.5 M54.5,37.4V39.4 M54.5,73V75.8 M54.5,79.4V81 M55.6,12.6V15.4 M55.6,22.9V28.6 M55.6,35.4V38.5 M55.6,73.5V75.3 M55.6,79.2V80.9 M56.7,36.1V37.5 M56.7,79.1V80.9 M57.8,78.9V81.5 M58.9,16.6V20.5 M58.9,79V82.1 M58.9,87V88.5 M60,11.9V21.9 M60,30.3V32.4 M60,65.4V68.1 M60,79V82 M61.1,12.3V21.9 M61.1,26.1V32.3 M61.1,65.7V68.1 M61.1,79.7V81.5 M62.2,19.5V21.1 M62.2,26V32.4 M62.2,65.4V68.1 M63.3,25.9V31.6 M63.3,65.9V68.1 M63.3,73V74.8 M64.4,26.6V30.2 M64.4,74V76.2 M64.4,85.4V87.6 M65.5,28V29.3 M65.5,75V76.7 M65.5,85.5V88.4 M66.6,74.7V77.1 M66.6,86.2V88.4 M67.7,74V77.5 M67.7,86.4V88.3 M68.8,72.3V77.9 M68.8,86.8V88.4 M69.9,72.2V76 M69.9,87V88.3 M71,73.6V75.5 M73.2,79.6V81.7 M74.2,79.5V82.9 M75.3,80.1V86.8 M76.4,81.1V85.7 M77.5,82.4V84.6";
+/// Impassable terrain as axis-aligned hatch (13 lines).
+pub const SKETCH_HATCH: &str = "M12.5,37.5H21.8 M12.3,42.5H28.3 M66.8,42.5H78 M16.2,47.5H30.1 M62.7,47.5H76.6 M20.3,52.5H30 M61.9,52.5H76.5 M20.4,57.5H29.8 M69.4,57.5H76.8 M21.5,62.5H28 M52.5,23.7V38.8 M52.5,73V79.8 M57.5,73.1V82";
 /// Bush clusters: three dots each, the ten largest bushes.
 pub const SKETCH_BUSH_DOTS: &str = "M9.4,17.11h0 M8.95,17.89h0 M9.85,17.89h0 M89.27,82.32h0 M88.82,83.1h0 M89.72,83.1h0 M82.81,88.02h0 M82.36,88.8h0 M83.26,88.8h0 M15.86,11.4h0 M15.41,12.18h0 M16.31,12.18h0 M9.23,24.5h0 M8.78,25.28h0 M9.68,25.28h0 M89.43,74.93h0 M88.98,75.71h0 M89.88,75.71h0 M54.18,63.46h0 M53.73,64.24h0 M54.63,64.24h0 M44.48,35.96h0 M44.03,36.74h0 M44.93,36.74h0 M19.51,68.82h0 M19.06,69.6h0 M19.96,69.6h0 M79.15,30.61h0 M78.7,31.39h0 M79.6,31.39h0";
 /// Baron and Dragon diamonds.

diff --git a/scripts/rift-geometry/build.py b/scripts/rift-geometry/build.py
@@ -30,21 +30,16 @@ OUT_RS = ROOT / "src" / "components" / "ui" / "rift_geometry.rs"
 
 SOURCE_KINDS = ("fixture:", "measured:", "reported", "approximate")
 
-# ---- Recipe constants (recipes-r1.md card A) -------------------------------
-# Measured walls are 4 to 7 units wide and cover about 17 % of the sheet, so
-# the card's mask numbers (epsilon 2, inset 1.5, pitch 5 to 7, runs >= 3)
-# leave three hatch lines on the whole map. The values below keep the card's
-# method (simplified survey rings, scanline hatch, inset, merged runs, seeded
-# inner-end jitter) at a scale the real walls can carry; the deviation is
-# recorded in docs/rift-schematic.md for the atelier.
-DP_EPSILON = 0.5          # sketch mask simplification, drawing units (card: 2.0)
-MIN_AREA = 3.0            # rings smaller than this drop out of the mask (card: 8)
-MIN_WIDTH = 0.8           # 2A/P (about the width of a strip); narrower drops
+# ---- Recipe constants (recipes-r1.md card A; critique-r1-rift.md fixes 1-6) --
+DP_EPSILON = 2.0          # sketch mask simplification, drawing units
+MIN_AREA = 20.0           # merged mask rings smaller than this drop out
+MIN_WIDTH = 6.0           # 2A/P (about the width of a strip); narrower drops
+MAX_TOTAL = 60            # vertices in the whole mask
 MAX_RING = 14             # vertices per sketch ring
 MERGE_GAP = 2.0           # scanline runs closer than this merge
-HATCH_PITCH = 1.1         # about 6 px at the 560 px sheet (card: 6 units)
-HATCH_INSET = 0.4         # (card: 1.5)
-RUN_MIN, RUN_MAX = 1.0, 16.0
+HATCH_PITCH = 5.0         # tune between 5 and 7 only
+HATCH_INSET = 1.5
+RUN_MIN, RUN_MAX = 6.0, 16.0
 JITTER = 0.6
 SEED = 151
 BANK = 1.5                # sketch river banks either side of the centreline
@@ -171,6 +166,72 @@ def simplify_ring(ring, eps):
         eps *= 1.25
         out = douglas_peucker(a, eps)[:-1] + douglas_peucker(b, eps)[:-1]
     return out
+
+
+def convex_hull(pts):
+    pts = sorted(set(pts))
+    if len(pts) < 3:
+        return pts
+
+    def cross(o, a, b):
+        return (a[0] - o[0]) * (b[1] - o[1]) - (a[1] - o[1]) * (b[0] - o[0])
+
+    lower, upper = [], []
+    for p in pts:
+        while len(lower) >= 2 and cross(lower[-2], lower[-1], p) <= 0:
+            lower.pop()
+        lower.append(p)
+    for p in reversed(pts):
+        while len(upper) >= 2 and cross(upper[-2], upper[-1], p) <= 0:
+            upper.pop()
+        upper.append(p)
+    return lower[:-1] + upper[:-1]
+
+
+def ring_gap(a, b):
+    return min(min(poly_dist(p, b + b[:1]) for p in a), min(poly_dist(p, a + a[:1]) for p in b))
+
+
+def build_mask(src):
+    rings = [([d(*p) for p in f["ring"]], f["id"]) for f in src["walls"]]
+    n = len(rings)
+    parent = list(range(n))
+
+    def find(i):
+        while parent[i] != i:
+            i = parent[i]
+        return i
+
+    for i in range(n):
+        for j in range(i + 1, n):
+            if ring_gap(rings[i][0], rings[j][0]) < MERGE_GAP:
+                parent[find(i)] = find(j)
+    groups = {}
+    for i in range(n):
+        groups.setdefault(find(i), []).append(i)
+    cand, dropped = [], []
+    for members in sorted(groups.values()):
+        ids = [rings[i][1] for i in members]
+        if len(members) == 1:
+            ring = rings[members[0]][0]
+        else:
+            ring = convex_hull([p for i in members for p in rings[i][0]])
+        ring = simplify_ring(ring, DP_EPSILON)
+        a = abs(area(ring)) if len(ring) >= 3 else 0.0
+        width = 2 * a / perimeter(ring) if a else 0.0
+        if a < MIN_AREA or width < MIN_WIDTH:
+            dropped += ids
+            continue
+        cand.append((a, ids, ring))
+    cand.sort(key=lambda c: (-c[0], c[1]))
+    mask, total = [], 0
+    for a, ids, ring in cand:
+        if total + len(ring) > MAX_TOTAL:
+            dropped += ids
+            continue
+        mask.append(ring)
+        total += len(ring)
+    return mask, sorted(dropped)
 
 
 def bez(c, t):
@@ -525,16 +586,11 @@ def build_sketch(src):
     lr1 = (lr0[0] + ur[0] * LEADER, lr0[1] + ur[1] * LEADER)
     label_box = (lb1[0], lb1[1] - 2.6, lb1[0] + 24.0, lb1[1] + 2.6)  # "YOUR TEAM", 13 px at 358 px
 
-    # Hatch mask: survey wall rings, simplified and filtered (card A).
-    mask, dropped = [], []
-    for f in src["walls"]:
-        ring = [d(*p) for p in f["ring"]]
-        a = abs(area(ring))
-        width = 2 * a / perimeter(ring)
-        if a < MIN_AREA or width < MIN_WIDTH:
-            dropped.append(f["id"])
-            continue
-        mask.append(simplify_ring(ring, DP_EPSILON))
+    # Hatch mask (card A, critique fix 4): survey wall rings closer than
+    # MERGE_GAP are merged (each group becomes its convex hull), simplified
+    # (Douglas-Peucker, <= 14 vertices), filtered by area and width, and the
+    # smallest rings go until the mask has at most MAX_TOTAL vertices.
+    mask, dropped = build_mask(src)
     mask_vertices = sum(len(r) for r in mask)
 
     def blocked(p):

diff --git a/src/components/ui/rift.rs b/src/components/ui/rift.rs
@@ -93,8 +93,10 @@ pub enum RiftCrop {
     Full,
     /// Match Day's 88 px inset: lanes, river (gap at mid), bases only.
     Inset,
-    /// Share strip centred on the river-mid bridge: 40 x 10.7 units below
-    /// `md`, 50 x 9.4 from `md`; no hatch, no bushes (R1-b).
+    /// Share strip centred on the river-mid bridge (50, 50): the card's 40 x 10.7
+    /// units below `md` and 50 x 9.4 from `md`, each widened by 3 units so
+    /// strokes run cleanly to the edge (critique fix 9): 43 x 11.53 below
+    /// `md`, 53 x 9.96 from `md`; no hatch, no bushes (R1-b).
     ShareStrip,
     /// Share strip centred on one base, for an artefact that carries a side.
     ShareStripAt(RiftAnchor),
@@ -323,8 +325,8 @@ pub fn RiftSketch(
             };
             view! {
                 <div class=format!("relative {class}") aria-hidden="true" data-rift="share">
-                    {strip(40.0, 10.7, "md:hidden")}
-                    {strip(50.0, 9.4, "hidden md:block")}
+                    {strip(43.0, 11.53, "md:hidden")}
+                    {strip(53.0, 9.96, "hidden md:block")}
                 </div>
             }
             .into_any()

diff --git a/.planning/missions/M152/gallery/tools/build-rift-preview.py b/.planning/missions/M152/gallery/tools/build-rift-preview.py
@@ -161,8 +161,8 @@ OUT = {
         f'<div style="width:1200px;height:740px;overflow:hidden;position:relative">'
         f'<div style="position:absolute;left:-560px;top:-380px">{survey(4)}</div></div>',
         "16px 40px"),
-    "rift-share-390.html": page("Rift share strip 390", strip(358, 40, 10.7, False), "16px"),
-    "rift-share-1280.html": page("Rift share strip 1280", strip(640, 50, 9.4, True), "16px"),
+    "rift-share-390.html": page("Rift share strip 390", strip(358, 43, 11.53, False), "16px"),
+    "rift-share-1280.html": page("Rift share strip 1280", strip(640, 53, 9.96, True), "16px"),
     "rift-inset-390.html": page("Rift inset 88", f'<div style="background:var(--color-ink-1);display:inline-block;padding:12px">{inset(88)}</div>', "16px"),
 }
 

diff --git a/docs/rift-schematic.md b/docs/rift-schematic.md
@@ -72,20 +72,29 @@ is what is used.
 
 ## Deviations from the recipe card (for the atelier)
 
-- **Sketch hatch scale (card A).** Measured walls are 4 to 7 drawing units wide and cover about 17 % of the
-  sheet. With the card's numbers (Douglas-Peucker epsilon 2.0, inset 1.5, pitch 5 to 7, runs of at least 3) the
-  whole map gets three hatch lines. The generator keeps the card's method (survey rings simplified into a mask,
-  axis-aligned scanline hatch by quadrant, inset, runs within 2 units merged, run length capped at 16, seed 151,
-  inner-end jitter of up to 0.6) at a scale the real walls carry: epsilon 0.5, inset 0.4, pitch 1.1 units (about
-  6 px on the 560 px sheet), runs of at least 1 unit. Result: 263 hatch lines; lit pixels in the 560 px sheet at
-  1280 measure 5.8 % (the card's band is 4.5 to 6.0 %); the 358 px sheet at 390 measures 9.7 %, since the same
-  lines sit in a smaller box.
-- **River centreline (card A).** The R1-a cubics deviate up to 3.8 units from the measured centreline (the middle
-  of the two banks, pits left out). The generator refits the same two cubics (smooth join at the mid crossing,
-  then a deterministic search on the handles); the best two cubics stay up to 2.2 units off (about 330 game
-  units, a third of the river's width), mostly at the top mouth, where the river bends towards the top lane. The
-  card allows no third cubic, so the residual stays and is written into the geometry JSON's checks.
-- **Sketch budget.** The sketch's path data is about 7 KB (the card estimated 4 KB); 4 KB of it is the hatch.
+- **Sketch hatch (card A, critique-r1-rift.md fixes 1 to 6, applied as written).** Wall rings closer than 2
+  units are merged (each group becomes its convex hull), simplified (Douglas-Peucker 2.0, at most 14 vertices),
+  rings under 20 square units or narrower than 6 units (2A/P) dropped, at most 60 vertices in all; hatch pitch
+  5.0, inset 1.5, runs 6 to 16 units, inner-end jitter up to 0.6 (seed 151). Measured walls are 4 to 7 units
+  wide, so only 6 merged masses (31 vertices) pass and the sheet carries 13 hatch lines. Lit pixels in the
+  sheet: **4.47 % at 1280 (560 px) and 6.41 % at 390 (358 px)**. No pitch in 5 to 7 puts both in the 4.5 to
+  6.0 % band (5.5: 4.25 / 6.20; 6.0: 4.21 / 6.09; 6.5: 4.21 / 6.07; 7.0: 4.24 / 6.22): with this few hatch
+  lines the figure is set by the frame, lanes, banks, labels and ticks, not by the pitch. Pitch 5.0 is closest.
+  Most of the impassable terrain therefore carries no hatch at the sketch level (it is drawn at the survey
+  level).
+- **River centreline (card A, critique fix 7).** The rule is applied: the R1-a cubics are kept unless the
+  measured centreline (the middle of the two banks, pits left out) deviates more than 1.5 units. It deviates up
+  to 3.8 units, so the generator refits the same two cubics (smooth join at the mid crossing, then a
+  deterministic search on the handles). The best two cubics stay up to 2.2 units off (about 330 game units, a
+  third of the river's width), mostly at the top mouth, where the river bends towards the top lane. The card
+  allows no third cubic, so this residual stays; it is recorded here and in the geometry JSON's checks
+  (`river_dev_r1a`, `river_dev_fit`).
+- **Sketch budget.** The sketch's path data is 3.1 KB, within the card's 4 KB estimate.
+- **Match Day inset (critique fix 8).** The inset draws no frame path: what reads as an octagon is the top and
+  bottom lanes, whose measured outer corners are chamfered. Lanes, the river with its gap (mid distance under 5)
+  and the bases are all it draws.
+- **Share strip (critique fix 9).** Centred on (50, 50); the card's 40 x 10.7 (below `md`) and 50 x 9.4 (from
+  `md`) are each widened by 3 units, to 43 x 11.53 and 53 x 9.96, so the strokes run to the edge.
 - **Lanes.** The measured top and bottom lanes cut their outer corner on a diagonal (the playable ground is
   chamfered there), so the sketch's lanes are chamfered too rather than right-angled.
 
